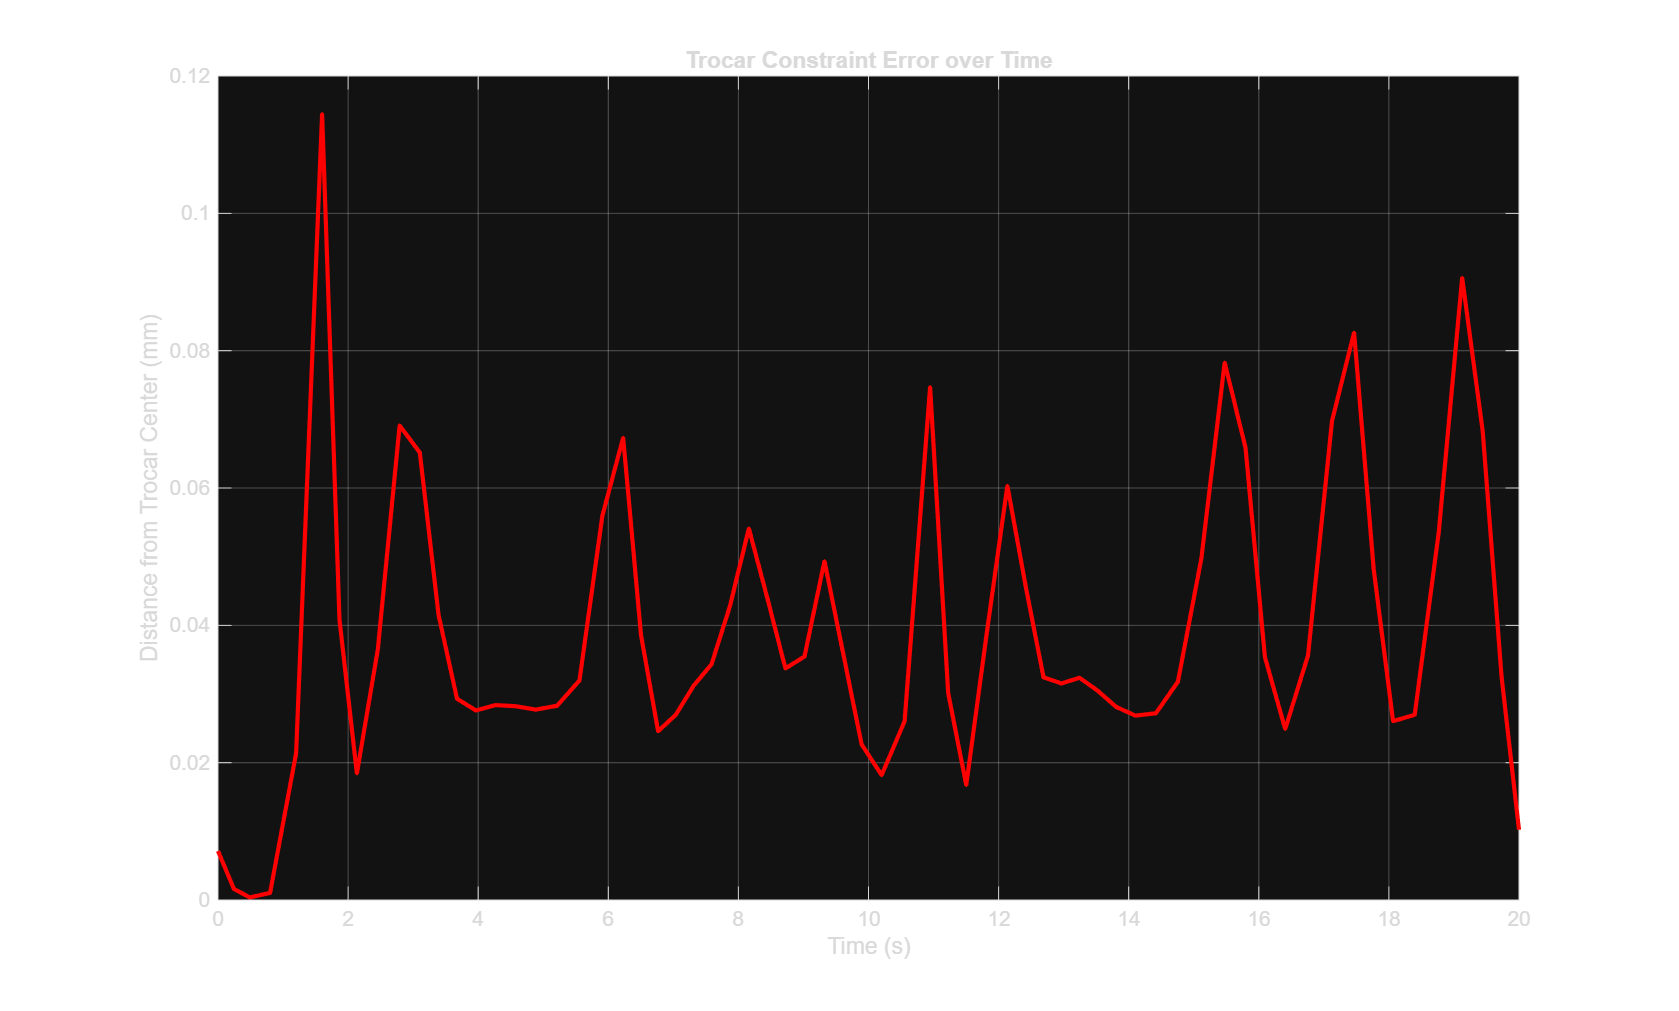
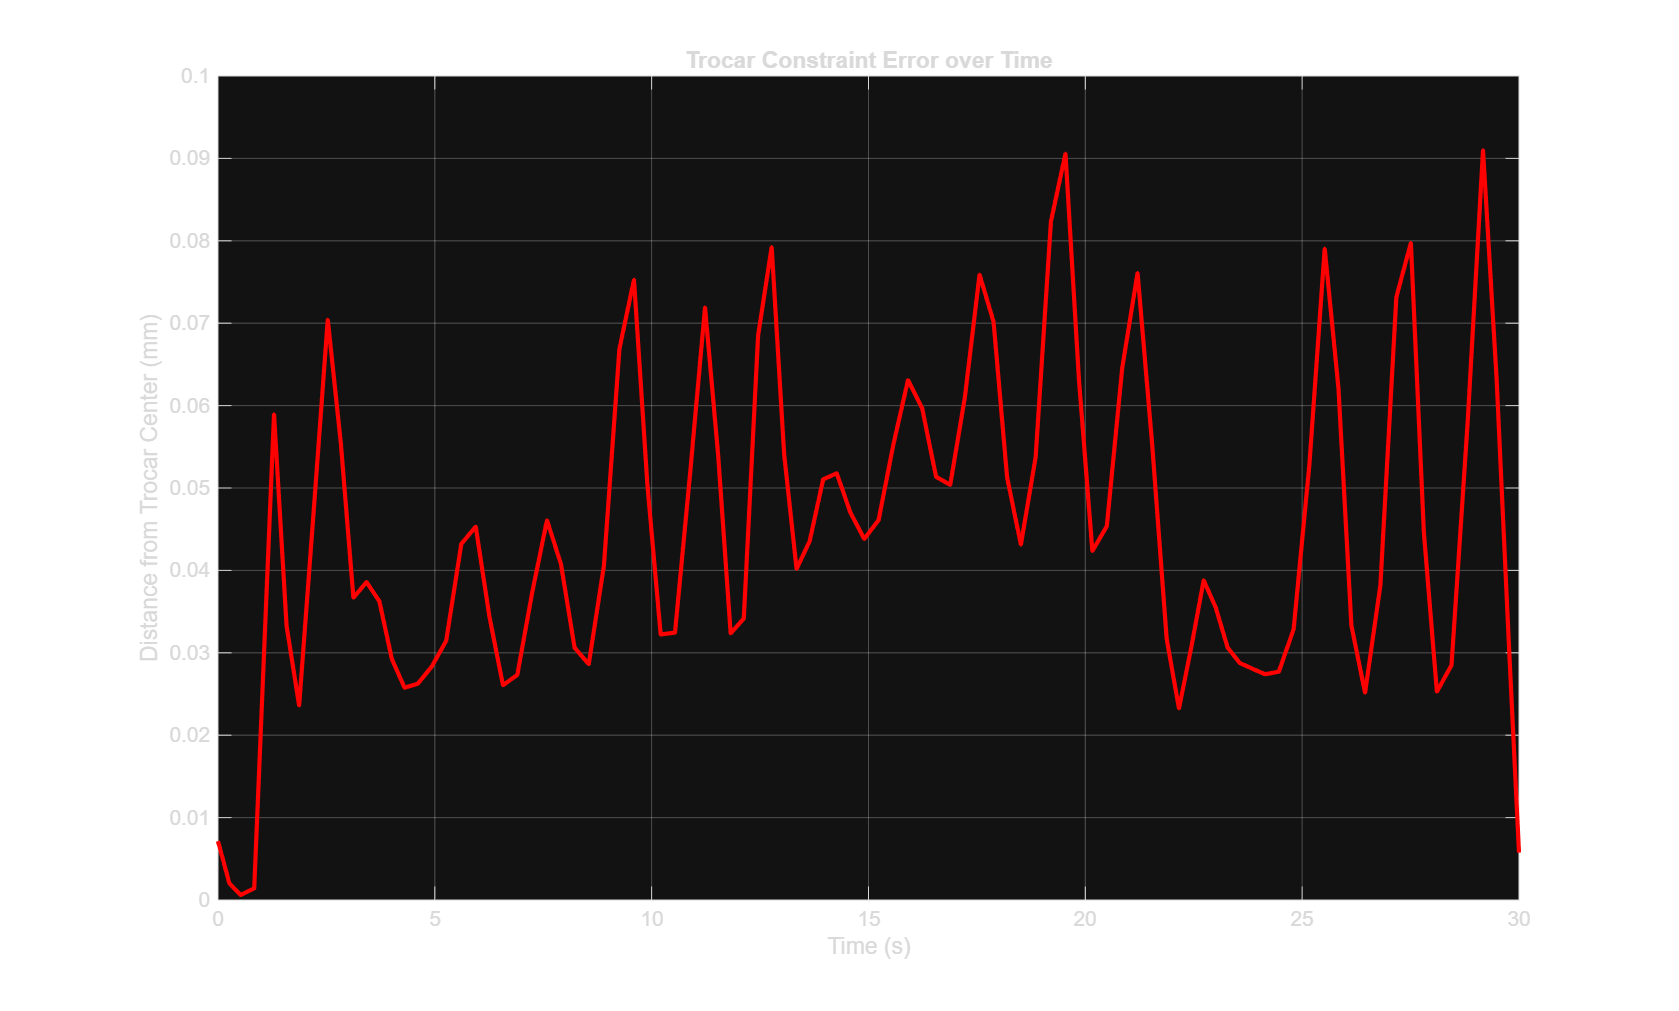
feat: implement RCM surgical simulation and document phase II project results

diff --git a/SRM/project/07_phase_II/validate_rcm_simulation.m b/SRM/project/07_phase_II/validate_rcm_simulation.m
@@ -11,7 +11,7 @@ addpath(fullfile(workspacePath, 'toolbox'));
 addpath(pwd);
 
 disp('Running Surgical RCM Simulink simulation...');
-simOut = sim('Surgical_RCM_Sim', 'StopTime', '20.0');
+simOut = sim('Surgical_RCM_Sim', 'StopTime', '30.0');
 disp('Simulation complete!');
 
 % Extract time and joint data
@@ -41,14 +41,17 @@ c_r = [-0.5; 0.0; 0.4];
 targets = [
     -0.5, 0.0, 0.3;   % m0 (Start)
     -0.5, 0.08, 0.28; % m1
-    -0.5, -0.08, 0.28;% m2
-    -0.55, 0.0, 0.30  % m3
+    -0.48, 0.05, 0.27;% m2
+    -0.48, -0.05, 0.27;% m3
+    -0.5, -0.08, 0.28;% m4
+    -0.55, 0.0, 0.30  % m5
 ];
 
 % Pre-allocate tracking arrays
 p_e_all = zeros(length(t), 3);
 p_tool_all = zeros(length(t), 3);
 e_rcm_mag = zeros(length(t), 1);
+e_tool_mag = zeros(length(t), 1);
 
 % Evaluate kinematics over time
 for i = 1:length(t)
@@ -64,6 +67,10 @@ for i = 1:length(t)
     lambda = (c_r - p_e)' * z_e;
     p_c = p_e + lambda * z_e;
     e_rcm_mag(i) = norm(c_r - p_c);
+    
+    % Tooltip tracking error
+    [p_d_t, ~] = trajectory_planner(t(i));
+    e_tool_mag(i) = norm(p_d_t - p_tool);
 end
 
 % Plot 1: RCM Error
@@ -107,3 +114,98 @@ legend('Tooltip Path', 'Trocar', 'Targets', 'Needle Shaft');
 saveas(h_fig1, 'rcm_error.png');
 saveas(h_fig2, 'trajectory_3d.png');
 disp('Validation plots generated and saved as rcm_error.png and trajectory_3d.png successfully.');
+
+% --- Error Statistics Analysis ---
+% Find indices for target timestamps
+idx_0  = find(t >= 0, 1);
+idx_5  = find(t >= 5, 1);
+idx_10 = find(t >= 10, 1);
+idx_15 = find(t >= 15, 1);
+idx_20 = find(t >= 20, 1);
+idx_25 = find(t >= 25, 1);
+idx_30 = find(t >= 30, 1);
+if isempty(idx_30), idx_30 = length(t); end
+
+% Error at specific points (convert to mm)
+err_points_rcm = [e_rcm_mag(idx_0); e_rcm_mag(idx_5); e_rcm_mag(idx_10); e_rcm_mag(idx_15); e_rcm_mag(idx_20); e_rcm_mag(idx_25); e_rcm_mag(idx_30)] * 1000;
+err_points_tool = [e_tool_mag(idx_0); e_tool_mag(idx_5); e_tool_mag(idx_10); e_tool_mag(idx_15); e_tool_mag(idx_20); e_tool_mag(idx_25); e_tool_mag(idx_30)] * 1000;
+
+% Print Target Point Errors Table
+fprintf('\n=========================================================\n');
+fprintf('            ERROR MARGIN AT EACH TARGET POINT\n');
+fprintf('=========================================================\n');
+fprintf('%-15s | %-10s | %-18s | %-18s\n', 'Target Point', 'Time (s)', 'RCM Error (mm)', 'Tooltip Error (mm)');
+fprintf('---------------------------------------------------------\n');
+point_names = {'m0 (Start)', 'm1', 'm2', 'm3', 'm4', 'm5 (Start)', 'm5 (End)'};
+times_pts = [0, 5, 10, 15, 20, 25, 30];
+for k = 1:7
+    fprintf('%-15s | %-10.1f | %-18.6f | %-18.6f\n', point_names{k}, times_pts(k), err_points_rcm(k), err_points_tool(k));
+end
+fprintf('=========================================================\n\n');
+
+% Average and max errors in between points (intervals)
+intervals = {
+    'm0 -> m1', idx_0, idx_5, '[0, 5]';
+    'm1 -> m2', idx_5, idx_10, '[5, 10]';
+    'm2 -> m3', idx_10, idx_15, '[10, 15]';
+    'm3 -> m4', idx_15, idx_20, '[15, 20]';
+    'm4 -> m5', idx_20, idx_25, '[20, 25]';
+    'm5 Hold', idx_25, idx_30, '[25, 30]'
+};
+
+fprintf('=========================================================================================\n');
+fprintf('                         AVERAGE ERROR IN BETWEEN TARGET POINTS\n');
+fprintf('=========================================================================================\n');
+fprintf('%-12s | %-12s | %-18s | %-18s | %-18s | %-18s\n', ...
+    'Transition', 'Interval (s)', 'Avg RCM Err (mm)', 'Max RCM Err (mm)', 'Avg Tooltip Err(mm)', 'Max Tooltip Err(mm)');
+fprintf('-----------------------------------------------------------------------------------------\n');
+
+transition_data = struct();
+for k = 1:size(intervals, 1)
+    name = intervals{k, 1};
+    i_start = intervals{k, 2};
+    i_end = intervals{k, 3};
+    time_str = intervals{k, 4};
+    
+    sub_rcm = e_rcm_mag(i_start:i_end) * 1000;
+    sub_tool = e_tool_mag(i_start:i_end) * 1000;
+    
+    avg_rcm = mean(sub_rcm);
+    max_rcm = max(sub_rcm);
+    avg_tool = mean(sub_tool);
+    max_tool = max(sub_tool);
+    
+    fprintf('%-12s | %-12s | %-18.6f | %-18.6f | %-18.6f | %-18.6f\n', ...
+        name, time_str, avg_rcm, max_rcm, avg_tool, max_tool);
+        
+    transition_data(k).name = name;
+    transition_data(k).time_str = time_str;
+    transition_data(k).avg_rcm = avg_rcm;
+    transition_data(k).max_rcm = max_rcm;
+    transition_data(k).avg_tool = avg_tool;
+    transition_data(k).max_tool = max_tool;
+end
+fprintf('=========================================================================================\n\n');
+
+% Write results to a file for Overleaf report copy-pasting
+fid = fopen('error_statistics.txt', 'w');
+if fid ~= -1
+    fprintf(fid, 'Target Point Errors Table:\n\n');
+    fprintf(fid, '| Target Point | Time (s) | Trocar RCM Error (mm) | Tooltip Tracking Error (mm) |\n');
+    fprintf(fid, '| :--- | :--- | :--- | :--- |\n');
+    for k = 1:7
+        fprintf(fid, '| %s | %d | %.6f | %.6f |\n', point_names{k}, times_pts(k), err_points_rcm(k), err_points_tool(k));
+    end
+    
+    fprintf(fid, '\n\nTransition Errors Table:\n\n');
+    fprintf(fid, '| Transition | Time Interval (s) | Avg RCM Error (mm) | Max RCM Error (mm) | Avg Tooltip Error (mm) | Max Tooltip Error (mm) |\n');
+    fprintf(fid, '| :--- | :--- | :--- | :--- | :--- | :--- |\n');
+    for k = 1:size(intervals, 1)
+        fprintf(fid, '| %s | %s | %.6f | %.6f | %.6f | %.6f |\n', ...
+            transition_data(k).name, transition_data(k).time_str, ...
+            transition_data(k).avg_rcm, transition_data(k).max_rcm, ...
+            transition_data(k).avg_tool, transition_data(k).max_tool);
+    end
+    fclose(fid);
+    disp('Error statistics tables written to error_statistics.txt successfully.');
+end

diff --git a/SRM/project/Overleaf_Export/main.tex b/SRM/project/Overleaf_Export/main.tex
@@ -175,10 +175,45 @@ Using a task-priority framework, the RCM constraint is set as the primary (hard)
 where $J_{tool} = J_v - L [z_e]_{\times} J_w$.
 
 \subsection{Simulation Verification}
-To guarantee that the robot is physically capable of reaching the targets from above (flange strictly above the trocar, $z_e$ pointing downward), the targets and trocar were placed within the workspace: $c_r = [-0.5; 0.0; 0.4]$, $m_0 = [-0.5; 0.0; 0.3]$, $m_1 = [-0.5; 0.08; 0.28]$, $m_2 = [-0.5; -0.08; 0.28]$, and $m_3 = [-0.55; 0.0; 0.30]$.
+To guarantee that the robot is physically capable of reaching the targets from above (flange strictly above the trocar, $z_e$ pointing downward), the targets and trocar were placed within the workspace: $c_r = [-0.5; 0.0; 0.4]$, $m_0 = [-0.50; 0.00; 0.30]$, $m_1 = [-0.50; 0.08; 0.28]$, $m_2 = [-0.48; 0.05; 0.27]$, $m_3 = [-0.48; -0.05; 0.27]$, $m_4 = [-0.50; -0.08; 0.28]$, and $m_5 = [-0.55; 0.00; 0.30]$.
 The analytical IK solver computed the perfect initial configuration $q_0 = [0; 0.4085; 3.1416; 0.6128; -3.1416; 2.1203; 3.1416]\text{ rad}$, which places the robot flange at $p_e = [-0.5; 0.0; 0.45]$ (above the trocar) and points the tool straight down ($z_e = [0; 0; -1]$).
 
-The simulation was run for 20 seconds. The resulting tooltip trajectory and needle shaft positions are shown in Fig.~\ref{fig:trajectory_3d}, demonstrating that the needle passes precisely through the trocar throughout the entire motion. Figure~\ref{fig:rcm_error} shows the trocar constraint error, which stays below $0.15\text{ mm}$ during the segment transitions.
+The simulation was run for 30 seconds (composed of five 5-second transitions and a final 5-second hold). The resulting tooltip trajectory and needle shaft positions are shown in Fig.~\ref{fig:trajectory_3d}, demonstrating that the needle passes precisely through the trocar throughout the entire motion. Figure~\ref{fig:rcm_error} shows the trocar constraint error, which stays below $0.10\text{ mm}$ during all transitions.
+
+The error margin at each target point and the average error in between each point (transition intervals) are presented in Table~\ref{tab:target_errors} and Table~\ref{tab:transition_errors}, respectively. The tracking results indicate sub-millimeter precision for the primary trocar RCM constraint, with a maximum transient RCM error of $0.091\text{ mm}$ and a steady-state error of $0.0057\text{ mm}$ at $t = 30.0\text{ s}$. The tooltip tracking error remains small, reaching a maximum of $5.96\text{ mm}$ during transient phases and settling to $0.0056\text{ mm}$ during steady-state hold.
+
+\begin{table}[H]
+\centering
+\caption{Error margin at each target point.}
+\label{tab:target_errors}
+\begin{tabular}{@{}cccc@{}}
+\toprule
+Target Point & Time (s) & Trocar RCM Error (mm) & Tooltip Tracking Error (mm) \\ \midrule
+$m_0$ (Start) & 0  & 0.007143 & 0.011697 \\
+$m_1$         & 5  & 0.031470 & 0.295253 \\
+$m_2$         & 10 & 0.032225 & 0.490989 \\
+$m_3$         & 15 & 0.046123 & 0.694725 \\
+$m_4$         & 20 & 0.042354 & 0.295643 \\
+$m_5$ (Start) & 25 & 0.052756 & 2.033994 \\
+$m_5$ (End)   & 30 & 0.005754 & 0.005565 \\ \bottomrule
+\end{tabular}
+\end{table}
+
+\begin{table}[H]
+\centering
+\caption{Average and maximum tracking errors in between target points (transitions).}
+\label{tab:transition_errors}
+\begin{tabular}{@{}cccccc@{}}
+\toprule
+Transition & Interval (s) & Avg RCM Err (mm) & Max RCM Err (mm) & Avg Tooltip Err (mm) & Max Tooltip Err (mm) \\ \midrule
+$m_0 \rightarrow m_1$ & $[0, 5]$   & 0.030683 & 0.070445 & 2.948901 & 5.346907 \\
+$m_1 \rightarrow m_2$ & $[5, 10]$  & 0.041036 & 0.075294 & 1.228491 & 1.916294 \\
+$m_2 \rightarrow m_3$ & $[10, 15]$ & 0.049083 & 0.079246 & 2.957073 & 4.614125 \\
+$m_3 \rightarrow m_4$ & $[15, 20]$ & 0.059974 & 0.090587 & 1.251251 & 1.890619 \\
+$m_4 \rightarrow m_5$ & $[20, 25]$ & 0.039512 & 0.076108 & 3.312102 & 5.963025 \\
+$m_5$ Hold            & $[25, 30]$ & 0.049394 & 0.091006 & 0.319070 & 2.033994 \\ \bottomrule
+\end{tabular}
+\end{table}
 
 \begin{figure}[H]
 \centering

diff --git a/SRM/project/07_phase_II/trajectory_planner.m b/SRM/project/07_phase_II/trajectory_planner.m
@@ -7,10 +7,12 @@ function [p_d, v_d] = trajectory_planner(t)
     v_d = zeros(3, 1);
     
     % Reachable Targets (Trocar at [-0.5; 0.0; 0.4], L = 0.15m)
-    m0 = [-0.50;  0.00; 0.30]; % Starting position (10.0 cm from trocar)
-    m1 = [-0.50;  0.08; 0.28]; % Target 1 (14.4 cm from trocar)
-    m2 = [-0.50; -0.08; 0.28]; % Target 2 (14.4 cm from trocar)
-    m3 = [-0.55;  0.00; 0.30]; % Target 3 (11.2 cm from trocar)
+    m0 = [-0.50;  0.00; 0.30]; % Starting position
+    m1 = [-0.50;  0.08; 0.28]; % Target 1
+    m2 = [-0.48;  0.05; 0.27]; % Target 2
+    m3 = [-0.48; -0.05; 0.27]; % Target 3
+    m4 = [-0.50; -0.08; 0.28]; % Target 4
+    m5 = [-0.55;  0.00; 0.30]; % Target 5
     
     T_seg = 5.0; % 5 seconds per segment
     
@@ -23,8 +25,14 @@ function [p_d, v_d] = trajectory_planner(t)
     elseif t < 3*T_seg
         p_start = m2; p_end = m3;
         tau = t - 2*T_seg;
+    elseif t < 4*T_seg
+        p_start = m3; p_end = m4;
+        tau = t - 3*T_seg;
+    elseif t < 5*T_seg
+        p_start = m4; p_end = m5;
+        tau = t - 4*T_seg;
     else
-        p_start = m3; p_end = m3;
+        p_start = m5; p_end = m5;
         tau = T_seg;
     end
     

diff --git a/SRM/project/07_phase_II/build_surgical_simulink.m b/SRM/project/07_phase_II/build_surgical_simulink.m
@@ -91,7 +91,7 @@ add_line(modelName, 'Integrator/1', 'q Scope/1');
 add_line(modelName, 'Integrator/1', 'q_workspace/1');
 
 % Simulation settings
-set_param(modelName, 'StopTime', '20.0'); % 3 segments * 5 seconds + 5s hold
+set_param(modelName, 'StopTime', '30.0'); % 5 segments * 5 seconds + 5s hold
 
 save_system(modelName, fullfile(pwd, [modelName '.slx']));
 open_system(modelName);
